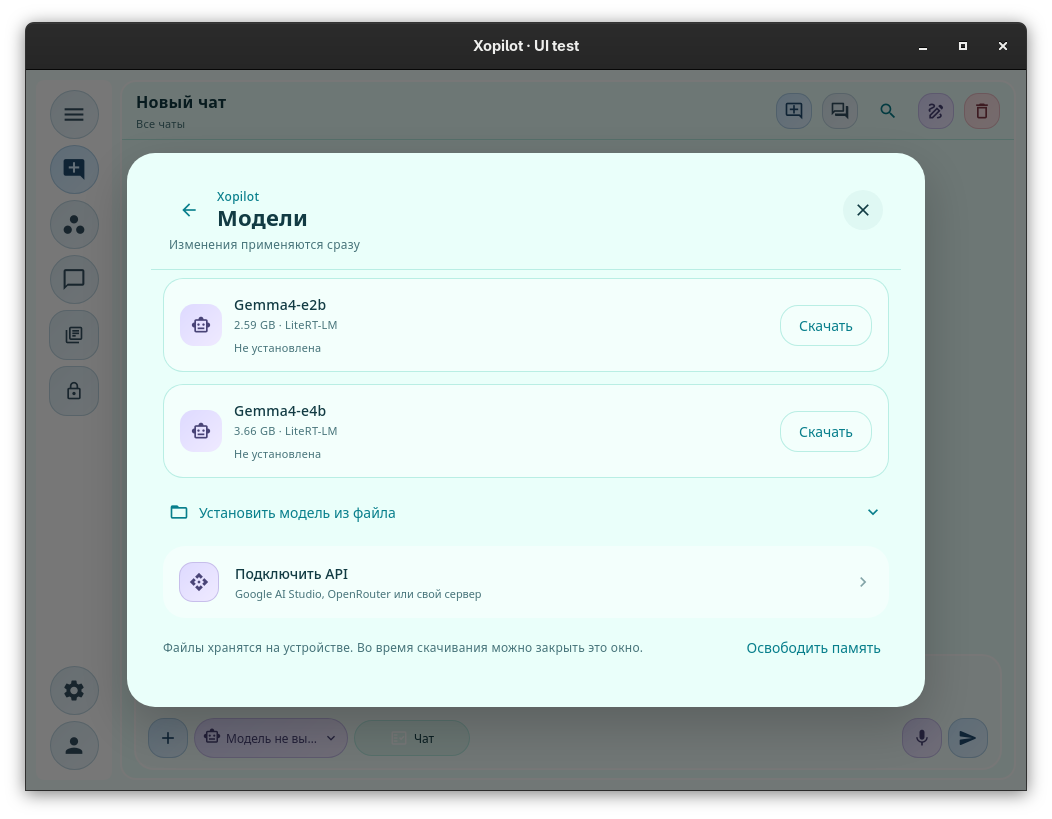
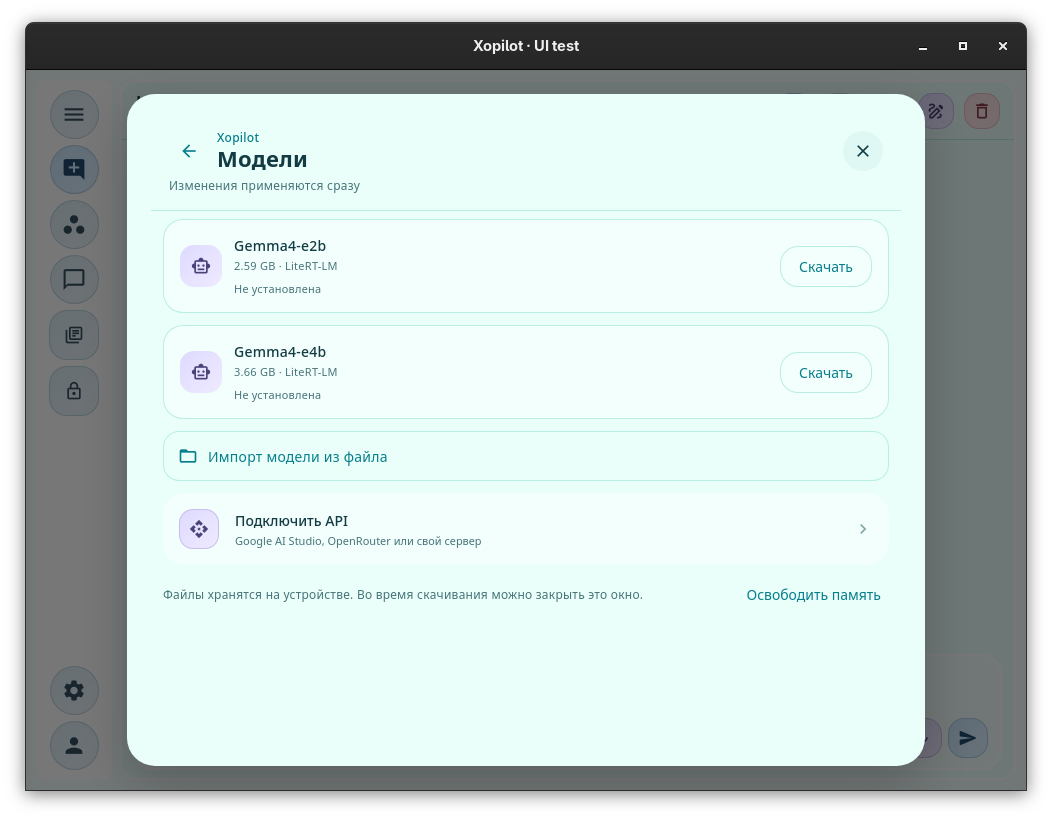
Обновить проверки интерфейса, импорта и повторного контекста модели
Зафиксировать 48 Rust-тестов, 59 UI-сценариев, настоящий выбор файла и прогресс внутри окна. Добавить многотуровый Canvas smoke с точным содержимым, одной загрузкой engine и повторным использованием KV-кеша. Обновить снимки, команды проверки, ограничения автоматического устройства и описание автоматического профиля. Публикация не выполняется.

diff --git a/README.md b/README.md
@@ -7,16 +7,16 @@
 
 Репозиторий переведён на Cargo workspace. Интерфейс и прикладные сервисы написаны на Rust; Python, Flet, Flutter и PyO3 не участвуют в запуске и сборке. Структура `App/app`, `App/settings`, `App/services`, `App/assets` и `Services` сохранена.
 
-**Перенос всех возможностей Flet ещё не завершён.** Встроенные локальные модели, инструменты агента и автономные аккаунты уже работают. Live, облачные сервисы и отдельные защищённые чаты пока не перенесены. Подробный статус — [MIGRATION.md](MIGRATION.md). Исходники прежней реализации доступны в истории Git.
+**Перенос всех возможностей Flet ещё не завершён.** Встроенные локальные модели, инструменты агента и автоматически создаваемый профиль уже работают. Live, облачные сервисы и отдельные защищённые чаты пока не перенесены. Подробный статус — [MIGRATION.md](MIGRATION.md). Исходники прежней реализации доступны в истории Git.
 
 ## Сейчас доступны
 
 - История чатов, поиск названий и сообщений, закладки, переименование, редактирование и удаление сообщений, сохранение черновиков, экспорт Markdown.
 - Ответы совместимого Chat Completions API: потоковый текст, отмена запроса, сетевые таймауты. Настраиваются Google AI Studio, OpenRouter или собственный URL. Локальные llama-server и Ollama подключаются тем же способом, их нужно запустить отдельно.
-- Встроенная Gemma4-e2b/e4b: скачивание, пауза/продолжение, SHA-256, импорт оригинального `.litertlm`, выбор модели, CPU/GPU и выгрузка памяти. Используется [официальный LiteRT-LM C API 1.0.0](https://github.com/google-ai-edge/LiteRT-LM/releases/tag/v0.19.1), без Python и внешнего сервера. Настоящая Gemma4-e2b проверена на Linux CPU; e4b и GPU отдельно не испытывались.
+- Встроенная Gemma4-e2b/e4b: скачивание, пауза/продолжение, SHA-256, импорт оригинального `.litertlm` одной кнопкой проводника с автоматическим определением по SHA-256, выбор модели, автоматический GPU/CPU и выгрузка памяти. Используется [официальный LiteRT-LM C API 1.0.0](https://github.com/google-ai-edge/LiteRT-LM/releases/tag/v0.19.1), без Python и внешнего сервера. Настоящая Gemma4-e2b проверена на Linux CPU; e4b и GPU отдельно не испытывались.
 - Агент для локальных моделей и API: чтение/поиск/изменение файлов выбранного проекта, команды, Canvas, поиск чатов и память. По умолчанию инструменты выключены; режим выбирается кнопкой рядом с моделью. Ручной режим показывает запись/команду перед выполнением. Автоматический режим включается явно. Есть пауза, остановка, журнал результатов и защита от повторяющихся действий.
-- Профиль содержит вход через Google и почту, регистрацию с подтверждением email. Транспорт прежнего `/api/v1` реализован; проверка авторизации отложена до включения сервера. Локальные профили доступны отдельно в раскрываемом разделе.
-- Локальные аккаунты: регистрация и вход на устройстве, отдельные SQLCipher-истории и настройки, смена пароля, выход и удаление одного профиля. Сервер не используется; данные прежнего профиля устройства сохраняются.
+- Профиль устройства создаётся автоматически при первом запуске, без регистрации и пароля. Имя и аватар редактируются по нажатию; UUID и история сохраняются между запусками. Прежние файлы локальных аккаунтов не удаляются.
+- Вход через Google и почту, регистрация с подтверждением email используют прежний серверный `/api/v1`. Проверка настоящей авторизации отложена до включения сервера.
 - Вложения: текст/код, PDF, DOCX, JPEG/PNG/WebP/BMP/GIF. Изображения уменьшаются перед отправкой. Неудачное чтение отдельного файла становится пометкой для модели.
 - Проекты с инструкциями, привязкой чатов и папкой: список файлов, поиск по коду, Git status и diff --stat, редактор с проверкой внешних изменений.
 - Canvas: Markdown, код и изолированный HTML-предпросмотр, сохранение документов. Рисунки прежней версии сохраняются, редактора рисования пока нет.
@@ -24,7 +24,15 @@
 
 Внешний API получает историю выбранного чата и прикреплённые к сообщениям материалы. Он не получает всю базу. Локальные материалы и экспортированные Markdown-файлы лежат вне SQLCipher в каталоге данных приложения.
 
+## Автоматическое устройство
+
+По умолчанию включено **Автоматически · GPU / CPU**. Приложение проверяет свободную VRAM через счётчики DRM/NVIDIA, а на Android — доступную общую RAM. Оценка оставляет запас: двойной размер весов плюс 2 ГиБ. При неизвестном объёме или недостатке памяти выбирается CPU. Если GPU не запустился до первого выданного токена, выполняется переход на CPU. Уже загруженная модель повторно использует своё устройство; её занятая VRAM не считается чужим расходом.
+
+Это выбор вычислительного backend, а не перенос SQLCipher на GPU. История остаётся на диске, сообщения — в оперативной памяти; размещением тензоров и KV-кеша управляет LiteRT. Ручной выбор сохранён в персонализации. Реальный GPU и физический Android ещё не испытаны.
+
 ## Интерфейс
+
+Дополнительные окна имеют общий размер и прокручиваемое содержимое. Уведомления и прогресс находятся над вводом, а при открытом окне — в его нижней части. Известный размер сопровождается процентом и объёмом; неизвестный отображается отдельным индикатором. Анимации меняют только прозрачность и transform; `prefers-reduced-motion` отключает движение.
 
 Компоновка возвращена к Flet-версии: узкая панель и выдвижное меню, компактный заголовок и ввод, исходные иконки/палитры, сообщения и настройки поверх чата. [Сверка с оригиналом и снимки](previews/FLET_PARITY.md).
 
@@ -51,7 +59,7 @@ dx serve --desktop -p xopilot
 # Результат: target/dx/xopilot/release/linux/app/
 ```
 
-В приложении откройте **Выбор модели**, скачайте Gemma и нажмите **Выбрать**. Первый ответ загружает веса в память. Следующие сообщения дополняют готовый контекст LiteRT; изменение прежних сообщений/инструкций пересоздаёт его. Смена чата или аккаунта сбрасывает контекст. Контекст сейчас ограничен 4096 токенами, автоматическое сжатие длинных разговоров ещё не перенесено. Для API используйте **Выбор модели → Подключить API**. Например, уже запущенный `llama-server` обычно доступен по `http://127.0.0.1:8080/v1`; идентификатор модели задаётся в форме.
+В приложении откройте **Выбор модели**, скачайте Gemma и нажмите **Выбрать**. Первый ответ загружает веса в память. Следующие сообщения дополняют готовый контекст LiteRT; изменение прежних сообщений/инструкций пересоздаёт его. Смена чата сбрасывает контекст; веса остаются загруженными. У агента сохраняется также внутренняя история вызовов инструментов. При приближении к лимиту KV-кеш пересобирается из краткой истории без повторной загрузки весов. Контекст сейчас ограничен 4096 токенами, автоматическое сжатие длинных разговоров ещё не перенесено. Для API используйте **Выбор модели → Подключить API**. Например, уже запущенный `llama-server` обычно доступен по `http://127.0.0.1:8080/v1`; идентификатор модели задаётся в форме.
 
 `prepare_runtime.sh` нужен разработчику при сборке: он скачивает закреплённый SDK и проверяет архив. Linux-библиотека встраивается в бинарник; Android-библиотека упаковывается в APK. Пользователю не нужны Rust, Cargo, Python или отдельная установка LiteRT. Сборка без подготовленного SDK сохраняет работу API, но не запускает встроенную модель.
 
@@ -77,7 +85,7 @@ dx serve --android -p xopilot --no-default-features --features mobile --target a
 
 Linux использует прежний `$XDG_DATA_HOME/Xopilot` (по умолчанию `~/.local/share/Xopilot`), Windows — `%APPDATA%/Xopilot`. Файл базы — `xopilot.db`. Схема SQLCipher, имена ключей настроек и разрешение ключа шифрования сохранены. При потере ключа приложение показывает ошибку, не создавая новую историю поверх старой. На Android JNI использует прежние `xopilot_keys` / `xopilot.database.v1`; это пока проверено компиляцией JNI-кода, а не обновлением APK на телефоне.
 
-Для отдельного тестового профиля можно задать `XOPILOT_DATA_DIR=/tmp/test/Xopilot`. `XOPILOT_MODELS_DIR` меняет каталог весов; большие файлы лучше держать на диске, поскольку `/tmp` может быть tmpfs. Веса общие для устройства. Локальные аккаунты имеют отдельные базы и папки материалов в `accounts/<id>`; старый профиль остаётся в основном `xopilot.db`. История и API-ключи зашифрованы. Материалы и экспорты, как и раньше, являются обычными файлами вне SQLCipher. Облачная синхронизация не запускается.
+Для отдельного тестового профиля можно задать `XOPILOT_DATA_DIR=/tmp/test/Xopilot`. `XOPILOT_MODELS_DIR` меняет каталог весов; большие файлы лучше держать на диске, поскольку `/tmp` может быть tmpfs. Веса общие для устройства. Автоматический профиль использует основной `xopilot.db`. Старые файлы `accounts/<id>` сохранены, но локальная регистрация и переключение этих профилей удалены. История и API-ключи зашифрованы. Материалы и экспорты, как и раньше, являются обычными файлами вне SQLCipher. Облачная синхронизация не запускается.
 
 Агент исполняет команды с правами пользователя устройства в выбранной папке проекта; это не изолированная ОС-песочница. Команда ограничена 60 секундами и объёмом вывода; остановка завершает также её дочерние процессы на Linux/Android. Долгоживущие серверные процессы и управление другими устройствами пока не перенесены.
 
@@ -97,9 +105,9 @@ dx build --desktop -p xopilot --example interface_interaction
 node scripts/check-ui.cjs
 ```
 
-Стенд проверяет клики, ввод, сохранение, потоковый ответ тестового API, отмену, закладки, конфликты редактора, агента с подтверждениями и локальные аккаунты. На Niri дополнительно меняет ширину окна с 1000 на 390 px. Мост существует только в тестовом примере. [Результаты интерфейсной проверки](tests/UI_REVIEW.md).
+Стенд проверяет клики, ввод, сохранение, потоковый ответ тестового API, отмену, закладки, конфликты редактора, агента с подтверждениями, карточки его действий и автоматический профиль. На Niri дополнительно меняет ширину окна с 1000 на 390 px. Мост существует только в тестовом примере. [Результаты интерфейсной проверки](tests/UI_REVIEW.md).
 
-Для проверки настоящей локальной генерации в том же UI задайте `XOPILOT_TEST_MODEL=/путь/gemma-4-E2B-it.litertlm` перед `node scripts/check-ui.cjs`. Стенд импортирует и проверяет веса в отдельном каталоге `target/ui-models`, не в личный профиль. Отдельные примеры `local_model_smoke`, `local_context_smoke` и `local_agent_smoke` проверяют ответ, повторное использование контекста и инструменты без WebView.
+Для проверки настоящей локальной генерации в том же UI задайте `XOPILOT_TEST_MODEL=/путь/gemma-4-E2B-it.litertlm` перед `node scripts/check-ui.cjs`. Стенд импортирует и проверяет веса в отдельном каталоге `target/ui-models`, не в личный профиль. Отдельные примеры `local_model_smoke`, `local_context_smoke`, `local_agent_smoke` и `local_canvas_smoke` проверяют ответ, повторное использование контекста и инструменты без WebView.
 
 Для быстрой проверки используйте одну команду:
 

diff --git a/tests/UI_REVIEW.md b/tests/UI_REVIEW.md
@@ -1,22 +1,17 @@
 # Проверка интерфейса — 11 ноября 2026
 
-В настоящем Linux-окне Dioxus/WebKitGTK пройдены **56 проверок** через `scripts/check-ui.cjs`. Использовались отдельные SQLCipher, папка проекта, локальный тестовый API и тестовые профили. Личная база не открывалась.
+Linux Dioxus/WebKitGTK проверен на отдельных SQLCipher, проекте и локальном тестовом API; личная история не открывалась. Автоматический стенд — `scripts/check-ui.cjs`.
 
-Проверены:
+Проверены общий размер всех разделов настроек, возврат и защита несохранённой формы, темы и собственные списки, переключение Canvas, проекты и конфликт внешней правки, шаблоны, потоковый ответ и отмена, закладки и поиск, экспорт, ширины 1000/390 px.
 
-- Настройки и возврат, ввод, сохранение и защита несохранённой формы; перезапуск восстанавливает черновик.
-- Семь тем: собственный список с отметкой выбранной темы, размещение в пределах окна. Такой же компонент используется для документов/типа Canvas и выбора локального профиля. Меню следует за кнопкой при переходе с 1000 на 390 px, закрывается Escape.
-- Карточки моделей: скачивание справа внутри карточки; импорт оригинального файла и выбор настоящей Gemma4-e2b.
-- Профиль: имя редактируется по нажатию, доступен выбор аватара; основной вход предлагает Google и почту, форма регистрации содержит подтверждение пароля. Реальные запросы к серверу аккаунтов не выполнялись.
-- Проекты: создание, привязка, просмотр и редактирование файла, конфликт внешней правки, удаление пространства с сохранением чата.
-- Canvas и шаблоны: сохранение, переключение, отмена, подтверждаемое удаление, вставка без отправки.
-- Чат: первый SSE-фрагмент отображается до завершения ответа, остановка возвращает ввод, отмена редактирования не сохраняет правку, закладки и пустой поиск, экспорт.
-- Агент: ручное подтверждение конкретной записи, пауза/продолжение, отказ без изменения файла, результат после выполнения инструмента.
-- Локальные профили: отдельные настройки и история, неверный пароль, повторный вход, восстановление черновиков, смена пароля и удаление одного профиля без потери гостевых данных. HTTP-запросы при этих действиях отсутствуют.
-- Настоящая Gemma4-e2b ответила `4` в интерфейсе; HTTP API при генерации не использовался.
+Агент показывает шаги непосредственно в переписке: подтверждение перед записью, пауза, разрешение, отказ без изменения файла, статусы и раскрываемые результаты. Карточки связаны с запросом и сохраняются в SQLCipher. Незаконченный шаг после перезапуска отмечается прерванным; удаление сообщения удаляет его журнал.
 
-Результаты сохранены в [ui-review-results.json](ui-review-results.json). Снимки: [профиль](../previews/dioxus-profile.png), [модели](../previews/dioxus-models.png), [обновления](../previews/dioxus-updates.png), [список тем](../previews/dioxus-themed-select.png).
+Локальная регистрация удалена. Проверены автоматически созданный профиль, редактирование имени, наличие выбора аватара и серверной формы регистрации по почте. Реальные запросы Google/аккаунтов отложены до включения сервера.
 
-В ходе проверки исправлены компоновка моделей, размеры окон, дублирование стрелки собственного списка и неверные значки новых строк. Стенд ожидает первый потоковый фрагмент, а не фиксированную задержку, и выбирает пункт в открытом меню, не одноимённую кнопку под ним.
+Отдельно проверен настоящий системный проводник: выбран оригинальный Gemma4-e2b, файл автоматически распознан по SHA-256 и установлен. Прогресс завершился на 100%, показал 2.41 ГиБ / 2.41 ГиБ и находился внутри открытого окна. Второго блока под окном нет. При закрытом окне уведомления и прогресс находятся над вводом. Неизвестный размер не выдаётся за 100%; цвета и анимация полосы принадлежат теме приложения.
 
-Проверка аватара включает настоящее декодирование, ограничение изображения и сохранение в SQLCipher в Rust-тесте. Системный выбор изображения на Android требует проверки телефона. Серверная авторизация/Google отложены по просьбе пользователя. Физический Android, GPU/e4b, Live, защищённые чаты и облачная синхронизация этим прогоном не проверены. Полный статус — [MIGRATION.md](../MIGRATION.md).
+Настоящая Gemma отвечает в интерфейсе без HTTP API. Отдельный `local_canvas_smoke` воспроизводит разговор о Canvas: приветствие, проверка списка, создание с содержимым «Привет мир» без уточнения типа. Проверены реальная запись, чистые ответы и ровно одна загрузка весов: 4 дополнения KV-кеша, 1 построение, 904 токена в проверенном прогоне.
+
+Актуальные проверки перечислены в [ui-review-results.json](ui-review-results.json). Снимки: [профиль](../previews/dioxus-profile.png), [модели](../previews/dioxus-models.png), [импорт и прогресс](../previews/dioxus-model-import.png), [о программе](../previews/dioxus-about.png), [действия агента](../previews/dioxus-agent-actions.png).
+
+GPU, e4b и физический Android не проверены. На телефоне остаются проверки Keystore, chooser и клавиатуры. Полный статус — [MIGRATION.md](../MIGRATION.md).

diff --git a/dev_readme.md b/dev_readme.md
@@ -30,10 +30,13 @@
 - `services/litert.rs` ограничивает небезопасный C ABI RAII-объектами и одним сериализованным engine; callback освобождается только после `wait_until_done`.
 - `services/model_installer.rs` публикует веса после SHA-256; пауза оставляет `.part`, а файловая блокировка исключает конкурирующую запись.
 - `services/agent.rs` вызывает только объявленные инструменты, ждёт подтверждения записи/команд и проверяет результаты. Остановка завершает группу процессов, а повторные одинаковые результаты переводят агента к подведению итога без инструментов.
-- `services/local_accounts.rs` не использует HTTP. Ключи получаются из пароля; индекс содержит только имена/соли/пути. Смена пароля создаёт новый зашифрованный снимок до атомарной смены индекса.
-- `state::activate_session` пересоздаёт окно по `session_revision`, сбрасывает старые сигналы и меняет папку материалов. Версия сессии входит в ключ фонового сохранения черновика.
 - `shared/popover` ставит меню по кнопке с учётом `visualViewport`, изменения размеров и прокрутки; скрытые desktop-кнопки заменяются мобильными якорями.
 
-- `settings/account` содержит профиль, аватар, серверную авторизацию и отдельное управление локальными профилями; `settings/models`, `settings/updates`, `app/models`, `app/materials`, `app/tasks` содержат рабочие компоненты по прежним границам папок. Пустые каталоги от кеша удалены.
+- `settings/account` содержит профиль, аватар, серверную авторизацию и автоматически созданный профиль; `settings/models`, `settings/updates`, `app/models`, `app/materials`, `app/tasks` содержат рабочие компоненты по прежним границам папок. Пустые каталоги от кеша удалены.
 - `litert` хранит conversation/KV-кеш, пока история является точным продолжением. Изменение инструкций или прошлого сообщения пересоздаёт conversation; смена чата вызывает `reset_context`, смена аккаунта выгружает engine.
 - Короткие CSS/JS-ресурсы нужны WebView: они позиционируют меню, управляют фокусом и передают выбранный Android-документ блоками. Прикладная логика находится в Rust.
+
+- RSX записываем развёрнуто: каждый элемент и атрибут на отдельной строке, обработчики с явными блоками. Не уплотняем разметку в одну строку. Возле функций оставляем короткое описание ответственности и ограничений.
+- `agent_protocol` разбирает полный JSON даже после пояснения, не пропускает обрывок команды в обычный ответ. `agent_session` сопоставляет чистую историю SQLCipher с расширенным разговором инструментов; это позволяет продолжать тот же KV-контекст.
+- `compute` выбирает backend по свободной памяти с запасом. `generation` не показывает загрузку, если engine уже существует, и не повторяет запрос после первого выданного токена.
+- `shared/progress` использует дробь только при известном размере. При открытом диалоге `activity_dock` отображается внутри него; над вводом второго экземпляра нет.

diff --git a/tests/RUST_DIOXUS.md b/tests/RUST_DIOXUS.md
@@ -1,14 +1,14 @@
 # Проверки Rust / Dioxus — 11 ноября 2026
 
-- `cargo test --workspace --no-default-features --locked`: **43 теста**, ошибок нет.
+- `cargo test --workspace --no-default-features --locked`: **48 тестов**, ошибок нет.
 - `cargo fmt --all --check`: успешно.
 - `cargo clippy --workspace --all-targets --no-default-features --locked -- -D warnings`: успешно.
 - `cargo clippy --workspace --all-targets --locked -- -D warnings`: успешно с системными GTK3/WebKitGTK/libxdo.
 - `dx build --desktop -p xopilot` и `dx build --desktop -p xopilot --example interface_interaction`: успешно, ресурсы упакованы.
-- Настоящий WebKitGTK: **56 пользовательских проверок**, ширины 1000 и 390 px, отдельные данные. [Отчёт](UI_REVIEW.md).
-- `./scripts/test.sh model /путь/gemma-4-E2B-it.litertlm`: настоящий KV-кеш дополнился, модель сохранила факт из предыдущего сообщения, правка истории пересобрала контекст, сброс чата удалил его. Агент прочитал, изменил и повторно проверил временный файл; содержимое равно `new`.
+- Настоящий WebKitGTK: **59 пользовательских проверок**, ширины 1000 и 390 px, отдельные данные. [Отчёт](UI_REVIEW.md).
+- `./scripts/test.sh model /путь/gemma-4-E2B-it.litertlm`: настоящий KV-кеш дополнился, модель сохранила факт из предыдущего сообщения, правка истории пересобрала контекст, сброс чата удалил его. Агент прочитал, изменил и повторно проверил временный файл; содержимое равно `new`. Настоящий разговор о Canvas также прошёл: документ создан с точным содержимым, веса загружены один раз, KV-кеш дополнен 4 раза.
 
-Тесты проверяют SQLCipher и неверные ключи, сохранение неизвестных JSON-полей, черновики, проекты, шаблоны, Canvas, обработку вложений, очистку Markdown, ограничение путей/симлинков, конфликты редактора, HTTP/SSE и отмену, установку модели с проверкой SHA-256, подтверждения и остановку агента, изоляцию/пароли локальных профилей, изменение имени/аватара без потери памяти.
+Тесты проверяют SQLCipher и неверные ключи, сохранение неизвестных JSON-полей, черновики, проекты, шаблоны, Canvas, обработку вложений, очистку Markdown, ограничение путей/симлинков, конфликты редактора, HTTP/SSE и отмену, установку модели с проверкой SHA-256, подтверждения и остановку агента, автоматическое создание профиля и постоянство UUID, изменение имени/аватара без потери памяти.
 
 Настоящий сервер аккаунтов и Google не вызывались. e4b/GPU и физический телефон не испытывались. Подробные команды — [TESTING.md](TESTING.md), ограничения — [MIGRATION.md](../MIGRATION.md).
 

diff --git a/tests/TESTING.md b/tests/TESTING.md
@@ -4,10 +4,10 @@
 
 | Команда | Что проверяет |
 |---|---|
-| `./scripts/test.sh` | SQLCipher, сервисы, потоки API на локальном тестовом сервере, агента, локальные профили и статический рендер |
+| `./scripts/test.sh` | SQLCipher, сервисы, потоки API на локальном тестовом сервере, агента, автоматический профиль и статический рендер |
 | `./scripts/test.sh full` | Те же тесты, rustfmt и Clippy без предупреждений |
 | `./scripts/test.sh ui` | Реальные клики и ввод в отдельном Linux-окне WebKitGTK |
-| `./scripts/test.sh model /путь/gemma-4-E2B-it.litertlm` | Настоящий KV-кеш, память разговора, сброс после правки и агент с файлами |
+| `./scripts/test.sh model /путь/gemma-4-E2B-it.litertlm` | Настоящий KV-кеш, память разговора, сброс после правки, агент с файлами и настоящий диалог о Canvas |
 
 Для проверки Gemma в интерфейсе:
 
@@ -22,3 +22,5 @@ UI-стенд создаёт отдельную базу и проект. Лич
 Google и настоящий сервер аккаунтов не тестируются до включения сервера. Эти проверки также не подтверждают работу на физическом Android, GPU и Gemma e4b. SQLCipher печатает сообщения о неверном ключе в тесте неправильного пароля — это ожидаемая часть проверки, ориентируйтесь на итог Cargo.
 
 В установленное приложение диагностический Unix-сокет не входит. Он существует только в примере `interface_interaction` и доступен внутри отдельного каталога с правами 0700.
+
+В проверке Canvas последовательно задаются приветствие, вопрос о списке документов и просьба создать документ с точным содержимым. Проверяется сама запись в SQLCipher, отсутствие служебного протокола в ответах и счётчик engine: веса должны загрузиться один раз, KV-контекст — переиспользоваться между вопросами. Для известного и неизвестного прогресса есть отдельный SSR-тест.
